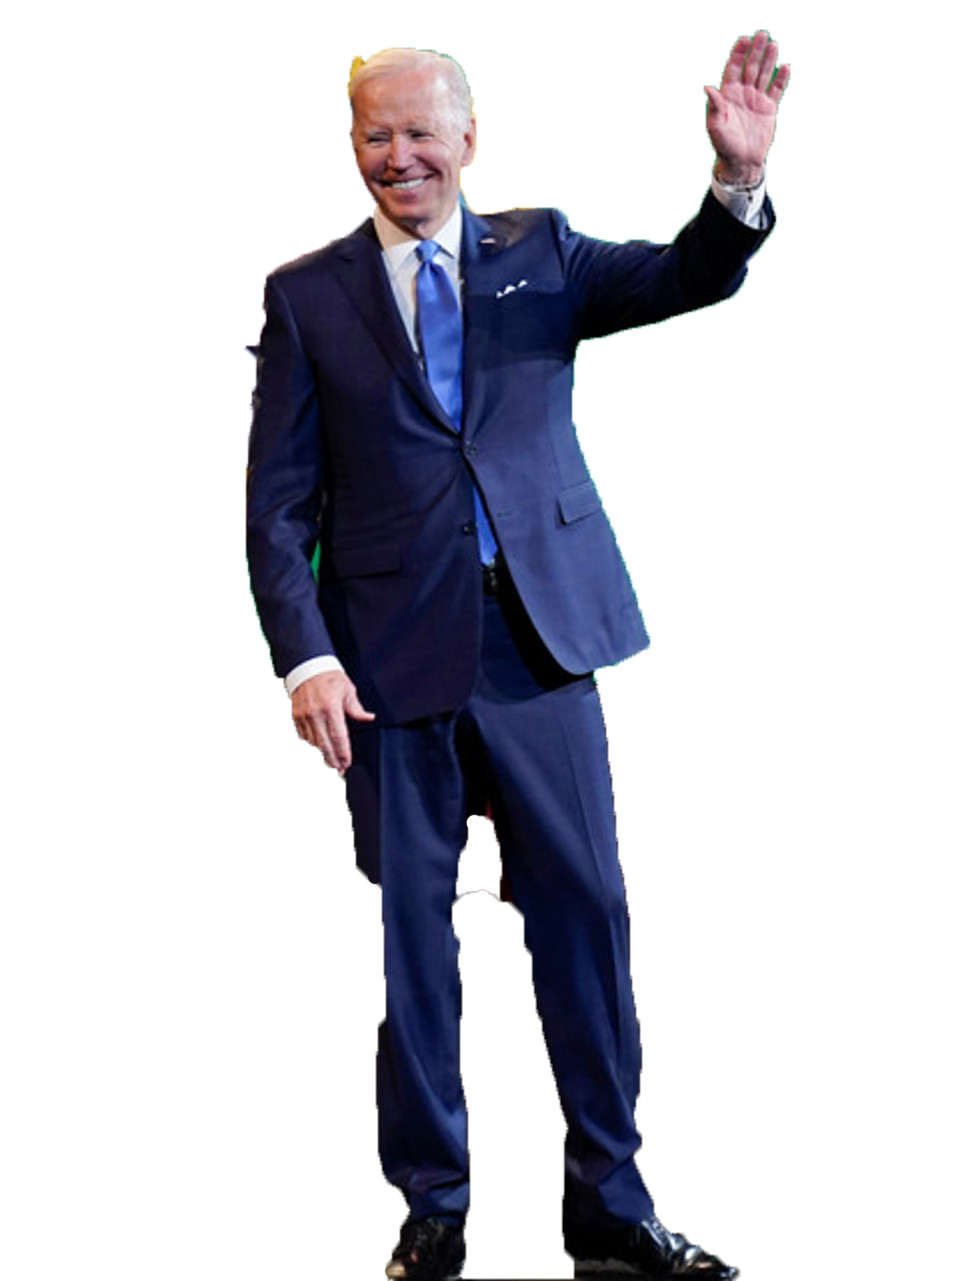
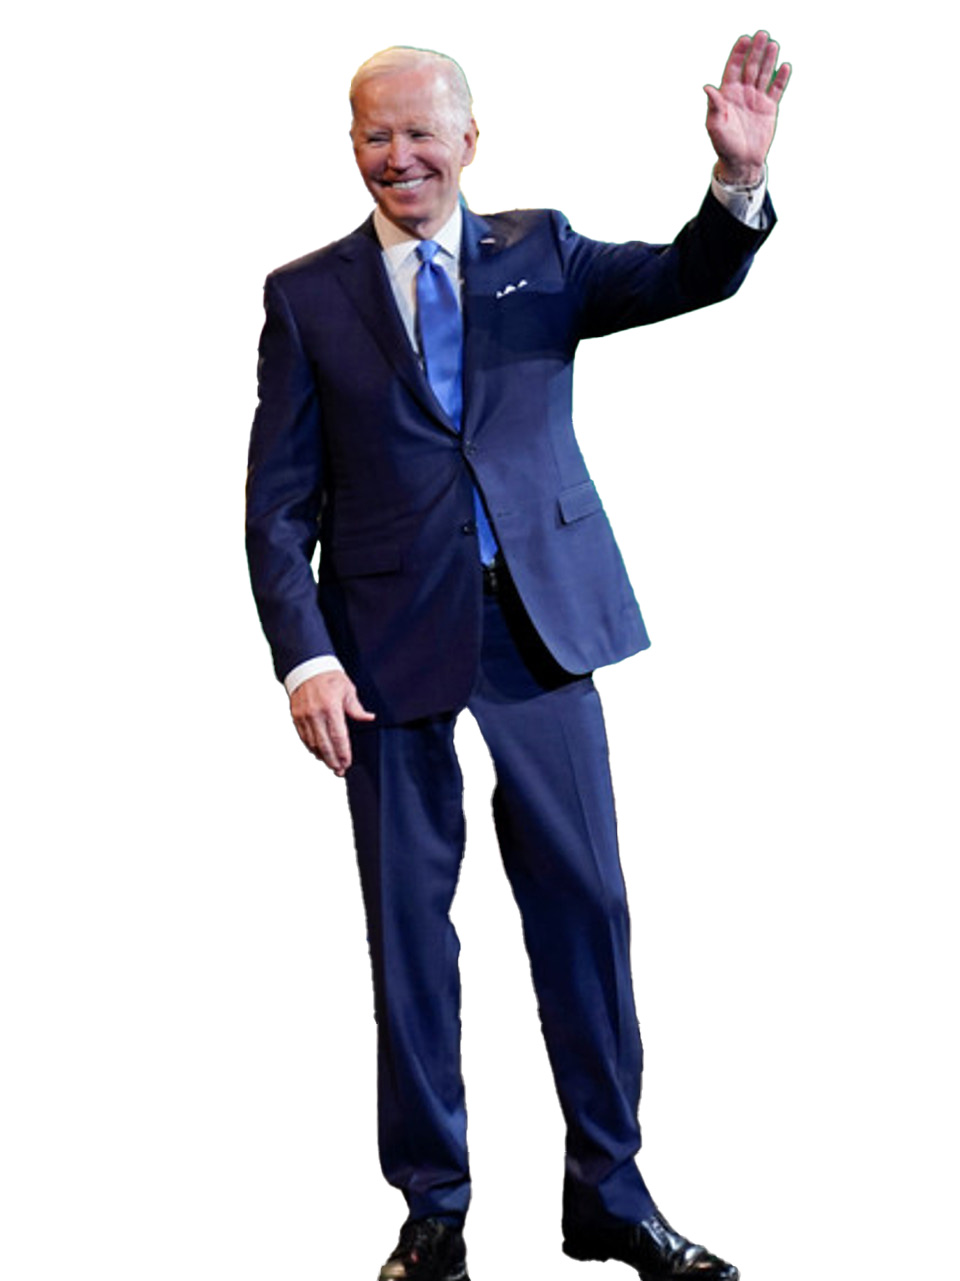
bunch of new homuncs

diff --git a/segmenter/index.html b/segmenter/index.html
@@ -11,7 +11,7 @@
 
     
     </head>
-    <img id="image" src="http://127.0.0.1:3000/cropped_photos/priscilla_cropped.jpg" crossorigin='anonymous'/>
+    <img id="image" src="http://127.0.0.1:3000/cropped_photos/ethan_cropped.jpg" crossorigin='anonymous'/>
     <br>
     <input type="text" name="threshold" id="thresholdInput" placeholder="0.4" />
     <button id="segmentButton">SEGMENT</button>

diff --git a/segmenter/face_mesh.html b/segmenter/face_mesh.html
@@ -10,7 +10,7 @@
 
 <body>
   <div class="container">
-    <image id="img" src="http://127.0.0.1:3000/faces/priscilla_face.jpg" crossorigin="anonymous"/>
+    <image id="img" src="http://127.0.0.1:3000/faces/ethan_face.jpg" crossorigin="anonymous"/>
     <button id="meshButton">RENDER MESH</button>
     <canvas class="output_canvas"></canvas>
     <a id="downloadElement"></a>

diff --git a/homunculize.py b/homunculize.py
@@ -166,7 +166,6 @@ def homunculize_parts(parts, rs, im, im_seg, final, s=11):
 	mask = np.zeros_like(final)
 	warped_mean = np.mean(warped, axis=2)
 	mask[(warped_mean!=0) & (warped_mean < 0.95)] = 1
-	utils.show_image(mask)
 	final = blend_stack(warped_corners, final, mask, 3, 45, 15, lap_mult=4, blur_mult=1, mask_kernal=25, mask_sigma=5)/4
 	return final
 
@@ -214,7 +213,6 @@ if __name__ == "__main__":
 	rs[-1] = 25
 	rs[-3] = 25
 	final = homunculize_parts(parts, rs, joe, segs, final, s=8)
-	utils.show_image(final)
 
 	idx = np.argwhere(full_face_warped)
 	final[idx[:,0]-100, idx[:,1]] = full_face_warped[idx[:,0], idx[:,1]]
@@ -235,12 +233,12 @@ if __name__ == "__main__":
 
 	parts = [bpt.construct_left_forearm(segs), 
 			bpt.construct_left_hand(segs)]
-	rs = [-15, 100]
+	rs = [-15, 200]
 	final = homunculize_parts(parts, rs, joe, segs, final, s=7)
 
 	parts = [bpt.construct_right_forearm(segs), 
 			bpt.construct_right_hand(segs)]
-	rs = [-15, 100]
+	rs = [-15, 200]
 	final = homunculize_parts(parts, rs, joe, segs, final, s=7)
 
 	# idx = np.argwhere(full_face_warped)
